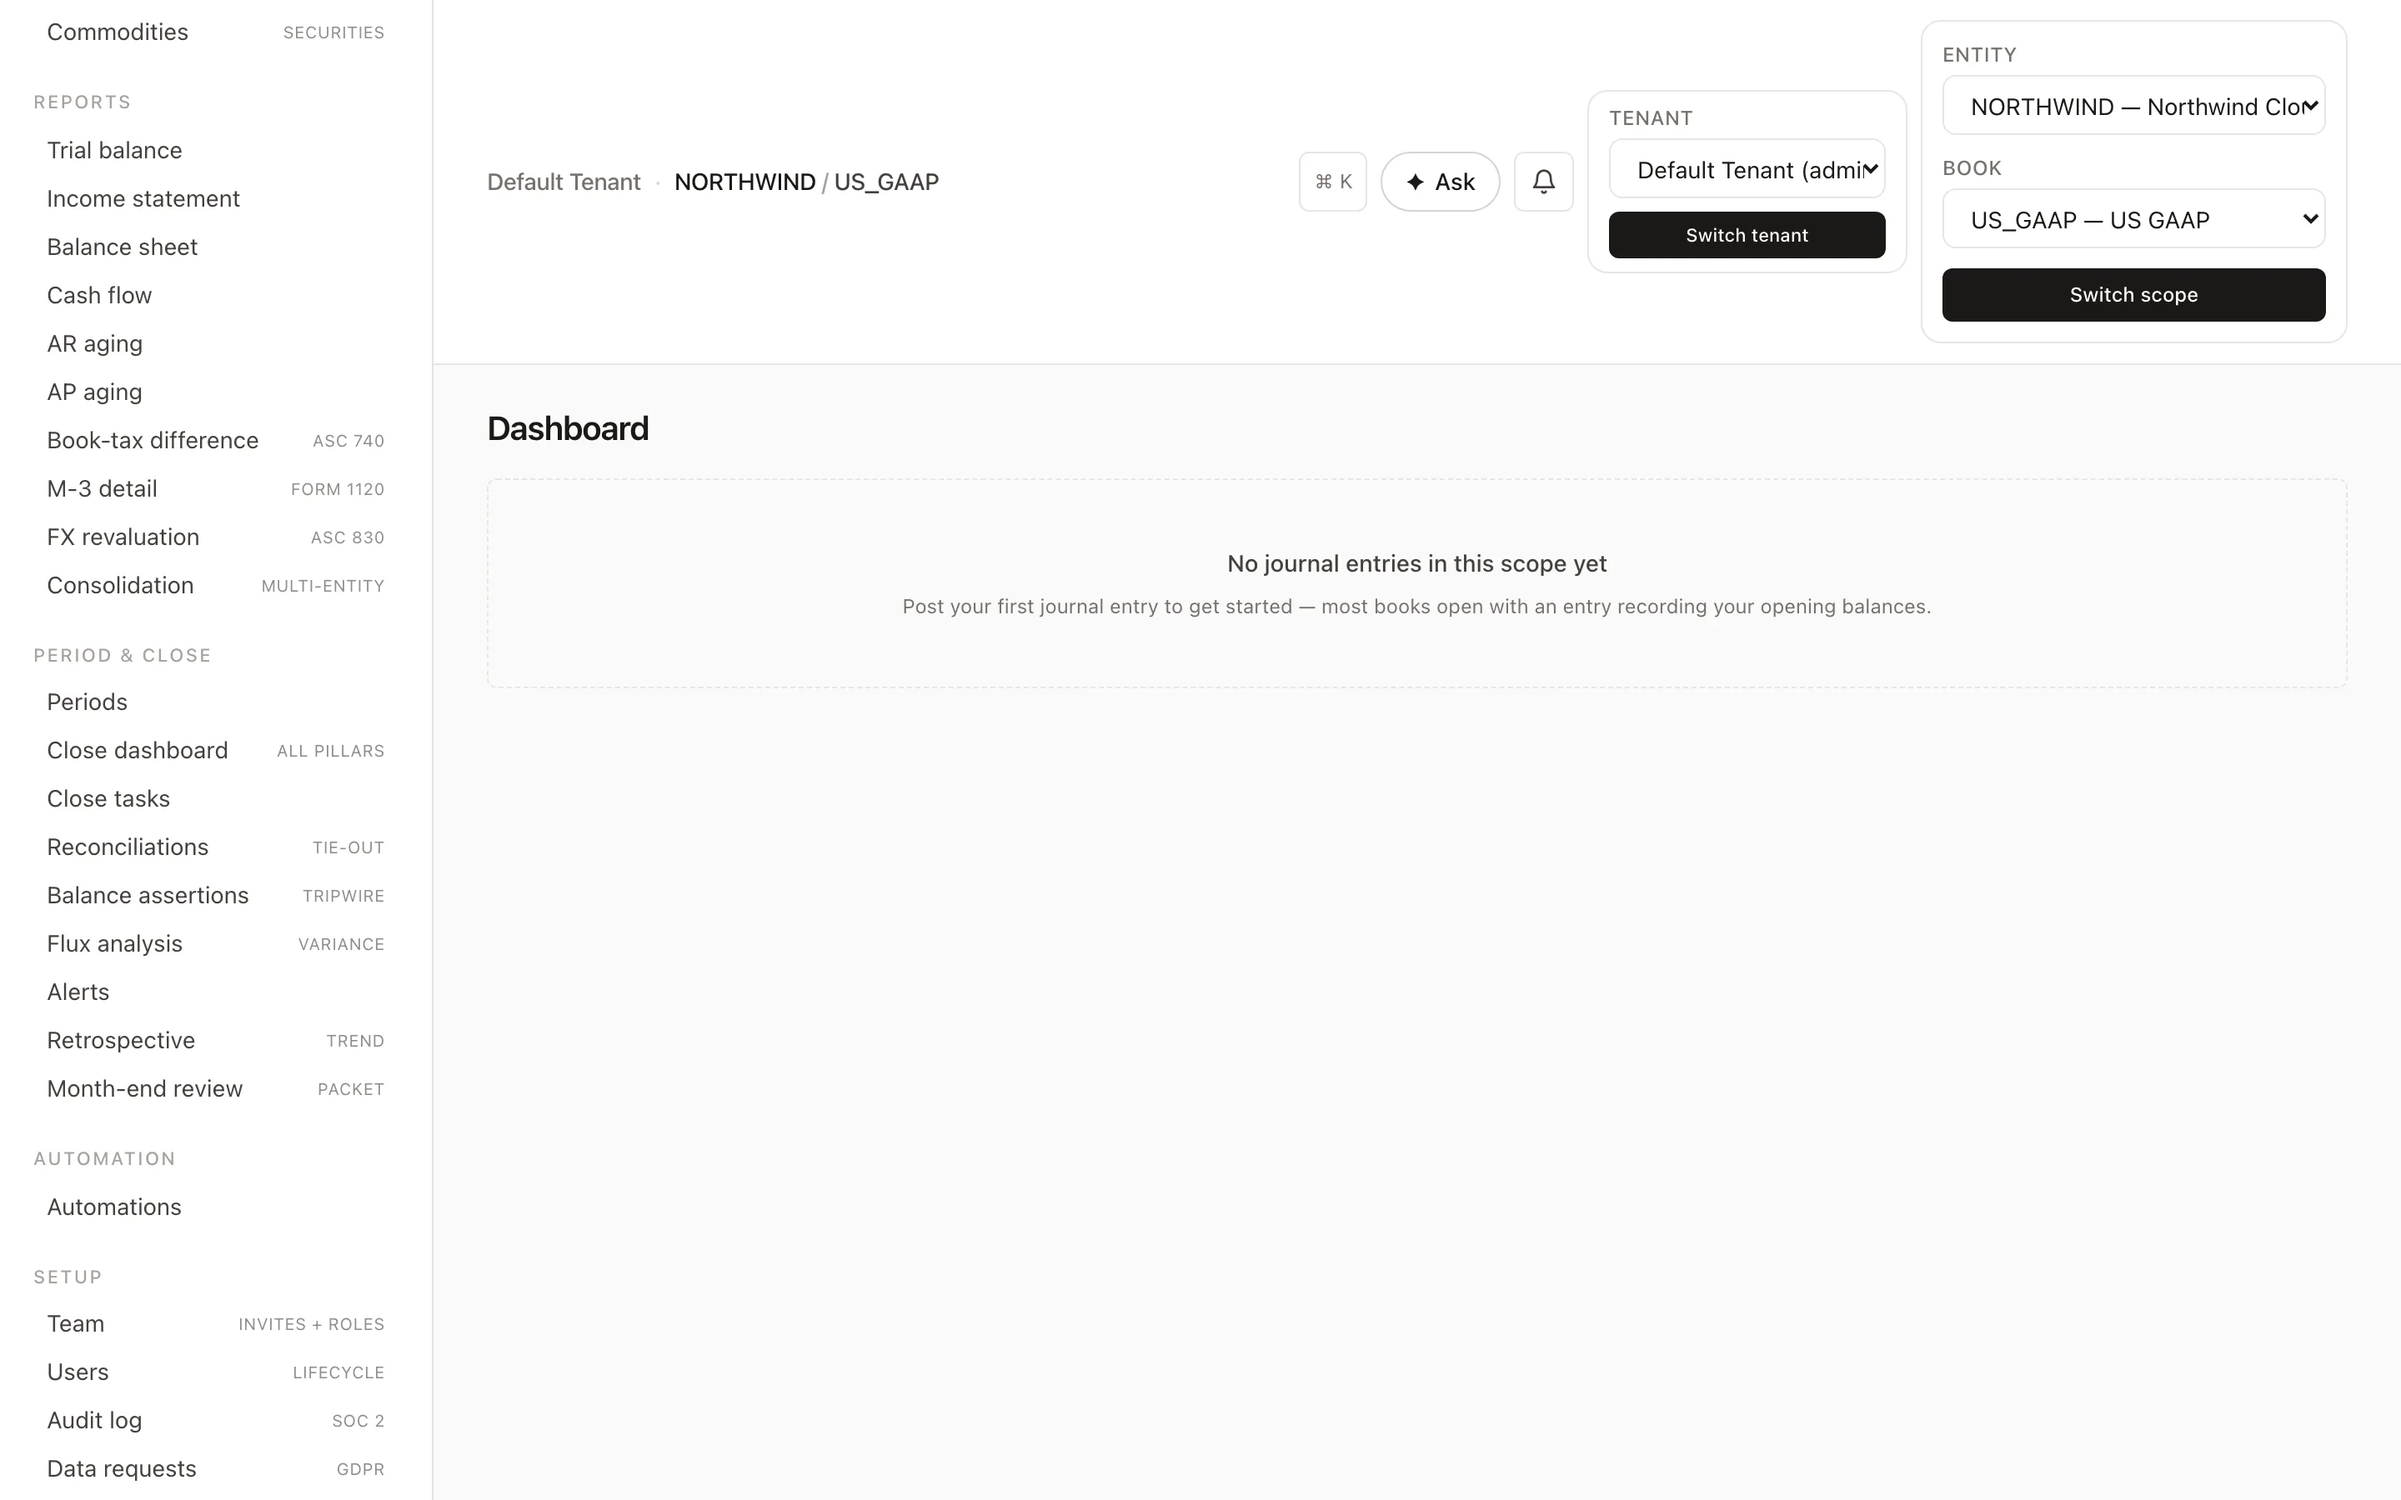
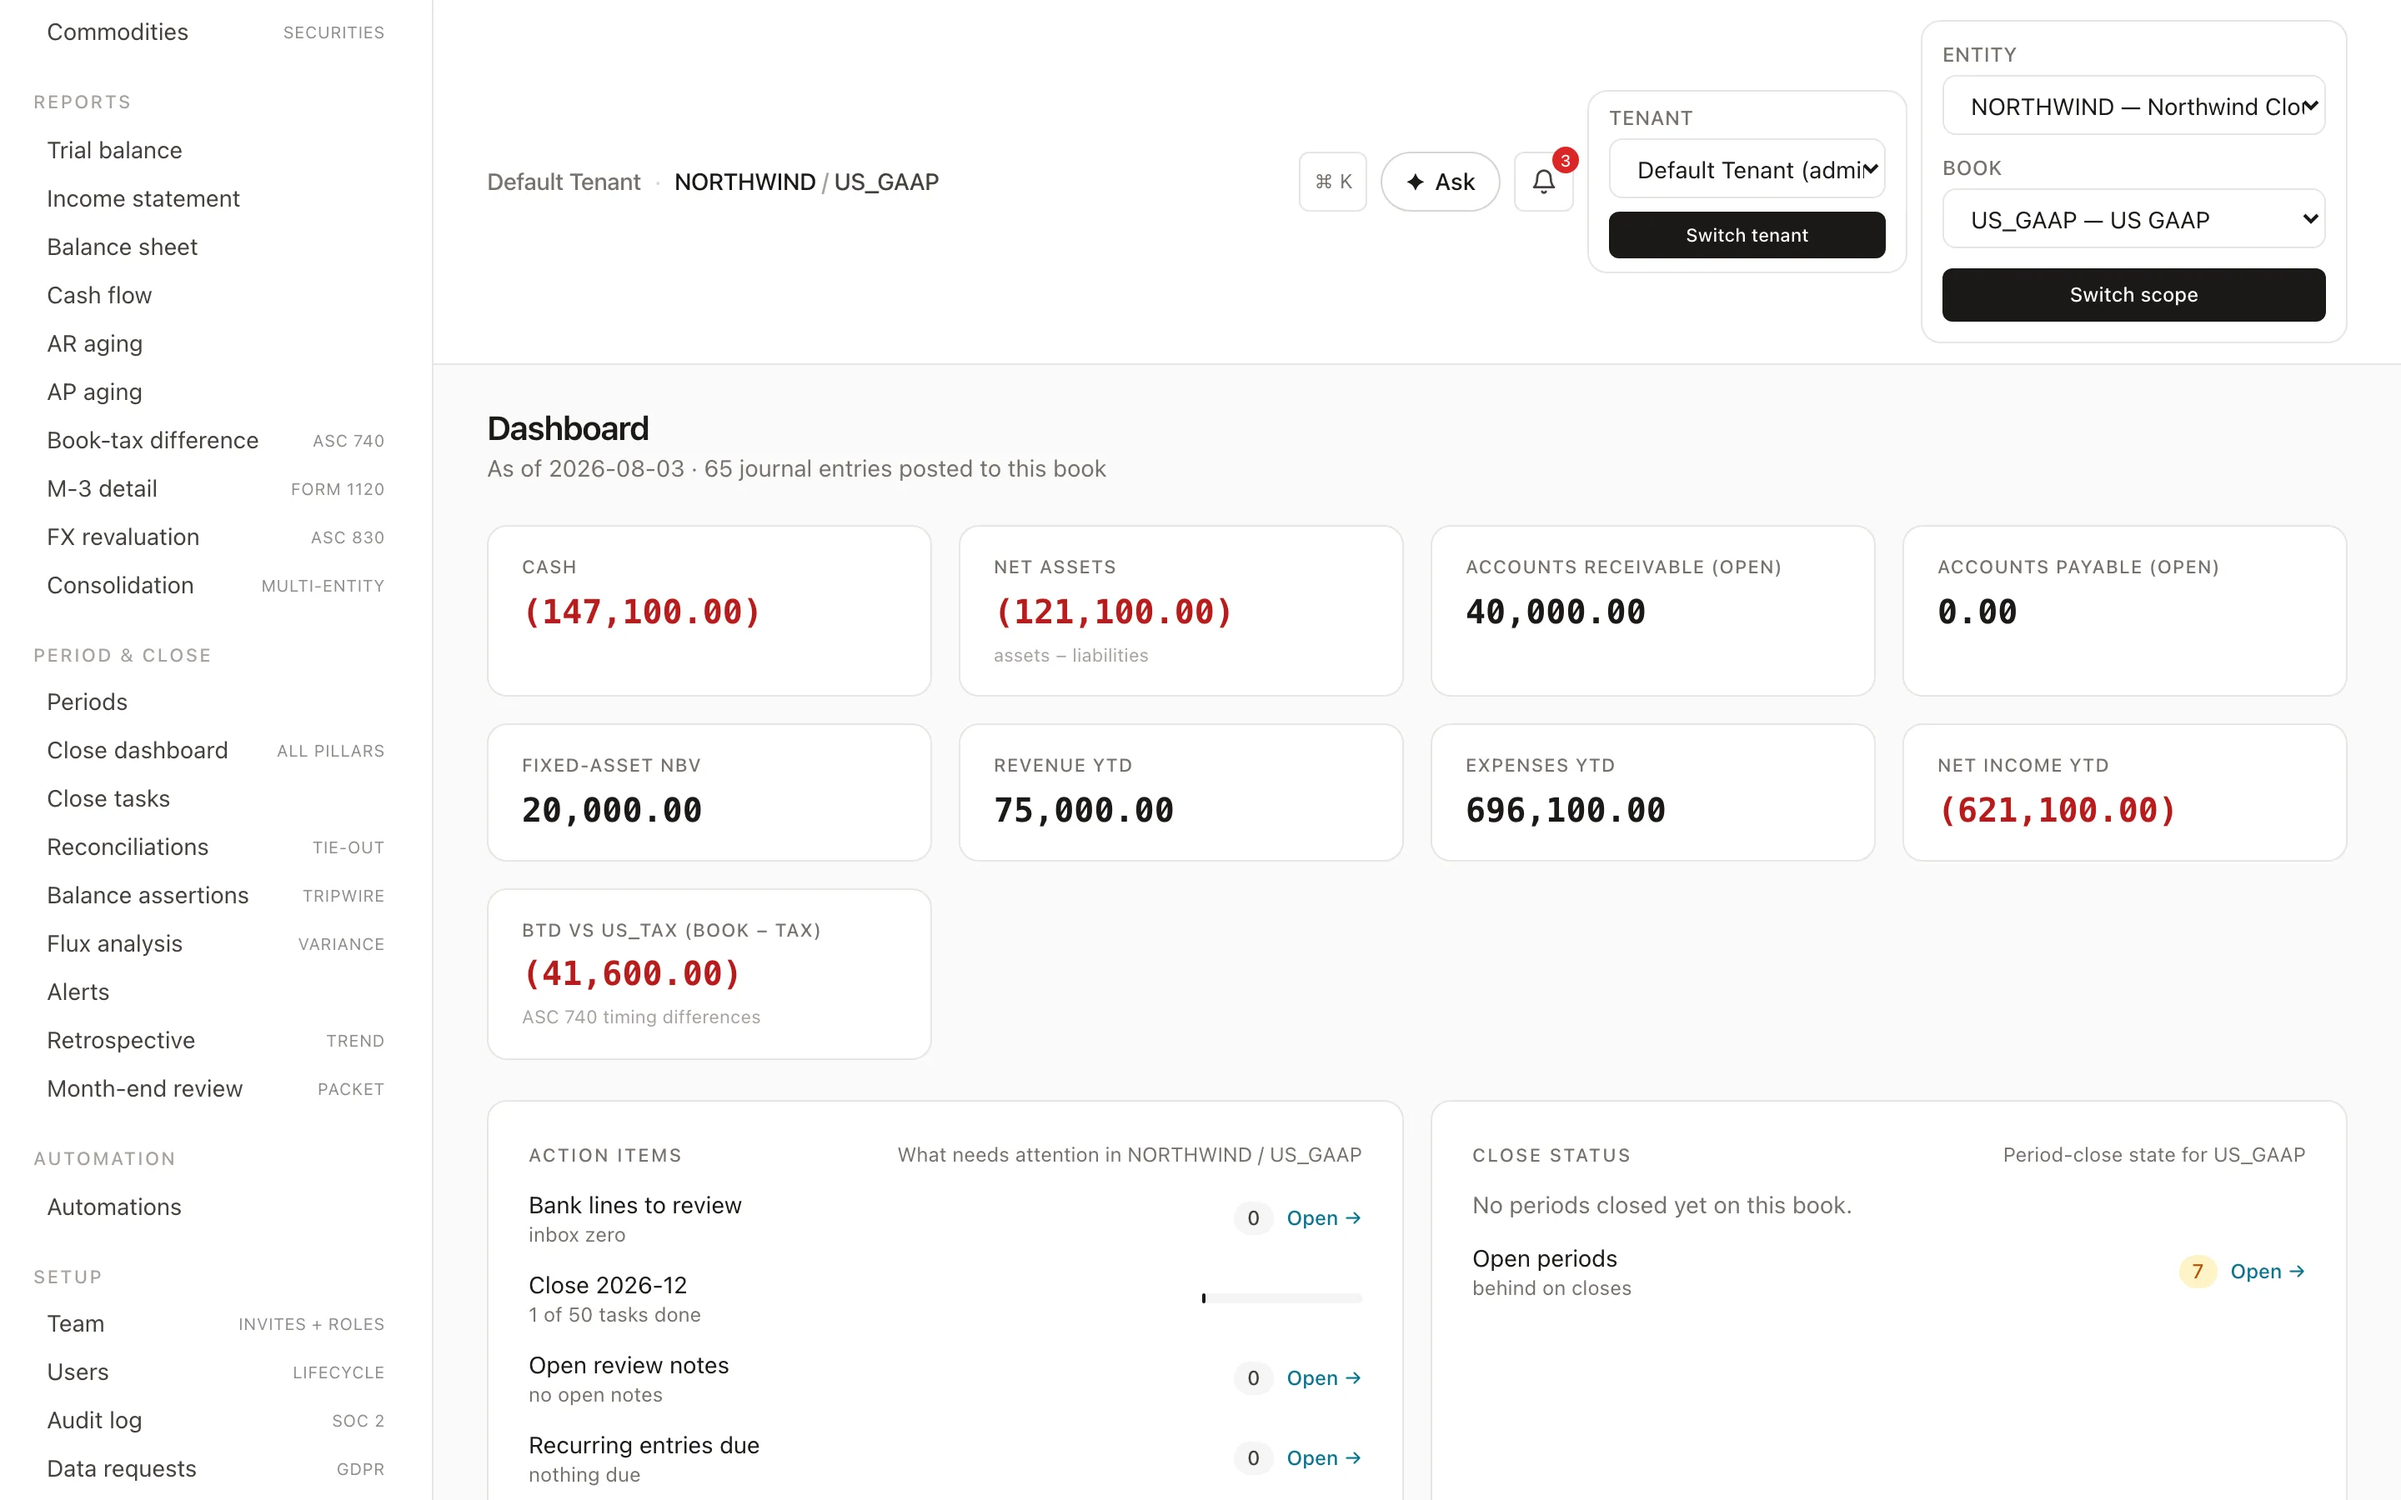
tours: flip /how-it-works live — and fix the empty frame I shipped in #330 (#331)
TWO THINGS. The second is a regression I introduced.

── 1. The flip ──────────────────────────────────────────────────────

Dropped the noindex, and did NOT add the nav row I said I would. The
sidebar catalog is the AUTHENTICATED app's nav — a logged-in user has no
use for a marketing tour, and a signed-out prospect never sees it. Wrong
audience. What the page actually needs is to be findable:

  - src/app/sitemap.ts   — public routes only. Every other route 503s in
                           production without Clerk, so listing them
                           would advertise URLs a crawler can't fetch.
  - src/app/robots.ts    — allow /how-it-works, disallow everything else.
  - sign-in page         — a link to the tour. That is the one place a
                           signed-out visitor reliably lands; without it
                           the page is reachable only from search.
  - metadataBase         — without it Next emits a RELATIVE canonical
                           (`href="/how-it-works"`), which cannot
                           deduplicate anything. Now absolute.

Both /sitemap.xml and /robots.txt bypass the middleware because
config.matcher excludes paths containing a dot — which is exactly what
makes them crawler-reachable on a fail-closed app. Verified: 200 each.

Both are inert without APP_BASE_URL (a sitemap cannot carry relative
URLs), so its env description now says so. The page would otherwise be
public, indexable, and invisible.
[…]

diff --git a/src/app/how-it-works/page.tsx b/src/app/how-it-works/page.tsx
@@ -21,8 +21,25 @@ export const metadata: Metadata = {
   title: "How it works — ledger-core",
   description:
     "A guided tour of the month-end close in ledger-core: close dashboard, task calendar, reconciliation sign-off, and the month-end review packet.",
-  // DARK: lift this with the frame-review flip, not before.
-  robots: { index: false, follow: false },
+  // Indexable as of the frame review. This is the only route in the app
+  // that should be — see src/app/robots.ts.
+  //
+  // metadataBase resolves the canonical and OG URLs to absolute. Without
+  // it Next emits `<link rel="canonical" href="/how-it-works">`, which is
+  // relative and therefore useless to a crawler — a canonical tag that
+  // does not name an origin cannot deduplicate anything. Undefined when
+  // APP_BASE_URL is unset, which is the same condition that empties the
+  // sitemap; both are inert together rather than half-configured.
+  metadataBase: process.env.APP_BASE_URL
+    ? new URL(process.env.APP_BASE_URL)
+    : undefined,
+  alternates: { canonical: "/how-it-works" },
+  openGraph: {
+    title: "See the close, before you sign up",
+    description:
+      "A two-minute guided walkthrough of a real month-end close in ledger-core.",
+    type: "website",
+  },
 };
 
 export default function HowItWorksPage() {

diff --git a/src/app/sitemap.ts b/src/app/sitemap.ts
@@ -1,0 +1,29 @@
+import type { MetadataRoute } from "next";
+
+// Sitemap — public routes only.
+//
+// Almost every route in this app is auth-gated and returns 503 in
+// production without Clerk (see src/middleware.ts), so listing them
+// would advertise URLs a crawler can never fetch. The tour gallery is
+// the one page meant to be found.
+//
+// /sitemap.xml is not matched by the middleware (config.matcher excludes
+// any path containing a dot), so it is served without the fail-closed
+// gate — which is what makes it reachable by a crawler at all.
+
+export default function sitemap(): MetadataRoute.Sitemap {
+  const base = process.env.APP_BASE_URL?.replace(/\/+$/, "");
+  // Without an absolute origin a sitemap is meaningless — relative URLs
+  // are invalid in the protocol. Emit nothing rather than something a
+  // crawler will reject.
+  if (!base) return [];
+
+  return [
+    {
+      url: `${base}/how-it-works`,
+      lastModified: new Date(),
+      changeFrequency: "monthly",
+      priority: 1,
+    },
+  ];
+}

diff --git a/src/app/robots.ts b/src/app/robots.ts
@@ -1,0 +1,24 @@
+import type { MetadataRoute } from "next";
+
+// robots.txt — allow the tour gallery, disallow everything else.
+//
+// The app is already fail-closed for crawlers (every other route 503s in
+// production without Clerk), so this is belt-and-braces rather than the
+// control. It exists to state intent explicitly: one page is public, the
+// ledger is not.
+//
+// Like /sitemap.xml, /robots.txt bypasses the middleware because
+// config.matcher excludes paths containing a dot.
+
+export default function robots(): MetadataRoute.Robots {
+  const base = process.env.APP_BASE_URL?.replace(/\/+$/, "");
+
+  return {
+    rules: {
+      userAgent: "*",
+      allow: "/how-it-works",
+      disallow: "/",
+    },
+    ...(base ? { sitemap: `${base}/sitemap.xml` } : {}),
+  };
+}

diff --git a/src/app/sign-in/[[...sign-in]]/page.tsx b/src/app/sign-in/[[...sign-in]]/page.tsx
@@ -36,8 +36,17 @@ export default async function SignInPage() {
   // Clerk handles the boundary internally.
   const { SignIn } = await import("@clerk/nextjs");
   return (
-    <div className="flex min-h-screen items-center justify-center bg-ink-50">
+    <div className="flex min-h-screen flex-col items-center justify-center gap-6 bg-ink-50">
       <SignIn />
+      {/* The one place a signed-out visitor reliably lands. Everything
+          else 503s without a session, so if the tour isn't reachable
+          from here it is only reachable from a search result. */}
+      <Link
+        href="/how-it-works"
+        className="text-sm text-ink-600 underline hover:text-ink-900"
+      >
+        New here? See a two-minute tour of the month-end close →
+      </Link>
     </div>
   );
 }

diff --git a/src/lib/env.ts b/src/lib/env.ts
@@ -154,7 +154,11 @@ const ENV_SPECS: EnvSpec[] = [
     requiredInProduction: false,
     description:
       "Absolute origin (https://…) used to build Stripe return URLs and " +
-      "invite/approval links. Checkout and portal 503 without it.",
+      "invite/approval links. Checkout and portal 503 without it. ALSO " +
+      "gates discoverability: /sitemap.xml emits an EMPTY urlset and " +
+      "/robots.txt omits its Sitemap line without it, because a sitemap " +
+      "cannot carry relative URLs — so the public tour page exists but " +
+      "no crawler is told where to find it.",
   },
 ];
 

diff --git a/docs/runbooks/tour-capture.md b/docs/runbooks/tour-capture.md
@@ -58,13 +58,56 @@ Frames and `tour.json` land in `public/tours/<id>/`.
 
 ## Scan before committing
 
+Two passes. **Run both** — the first one cannot catch what the second does.
+
+**1. Name leaks.** The repo is public and the Northwind seed contains a
+real firm name.
+
 ```bash
 for f in public/tours/*/steps/*.webp; do tesseract "$f" - --psm 6 2>/dev/null | grep -inE "deloitte|@.*\.test|DEV AUTH|STUB" && echo "  ^^ in $f"; done
 ```
 
-Silence means clean. Any hit is a blocker — fix the seed or the flow and
-recapture. Do not crop or edit frames by hand; the hotspot coordinates
-in `tour.json` are normalized against the captured image.
+**2. Empty states.** A frame can be perfectly clean and still show an
+empty product.
+
+```bash
+for f in public/tours/*/steps/*.webp; do tesseract "$f" - --psm 6 2>/dev/null | grep -inE "no journal entries|not seeded yet|nothing to show|Post your first" && echo "  ^^ EMPTY in $f"; done
+```
+
+**Then open every frame and look at it.** Both greps are heuristics; the
+eye is the actual gate.
+
+This is not hypothetical. A reshoot shipped with an empty frame 1 —
+"No journal entries in this scope yet" — because the shared dev database
+had been wiped by a concurrent test run between the first capture and the
+second. The name-leak scan passed (nothing leaked), only frames 3 and 4
+were eyeballed (the ones expected to change), and the regression reached
+`main`. **Verifying the frames you expected to change is not verifying
+the frames.**
+
+## The dev database is shared and gets wiped
+
+`npm test` clears the ledger by design (see CLAUDE.md → Testing). Any
+concurrent session running the suite will empty Northwind mid-session.
+
+So, immediately before capturing:
+
+```bash
+npm run db:seed
+```
+
+and confirm the entity actually has data — the tour's first frame is the
+dashboard, which is the fastest place to spot an empty book:
+
+```bash
+npx tsx -e 'import { prisma } from "@/lib/db"; prisma.journalEntry.count().then(n => { console.log("JEs:", n); return prisma.$disconnect(); })'
+```
+
+Re-seeding resets the ledger but leaves close tasks intact, so an
+instantiated close calendar survives.
+
+Do not crop or edit frames by hand; the hotspot coordinates in
+`tour.json` are normalized against the captured image.
 
 ## Publishing
 
